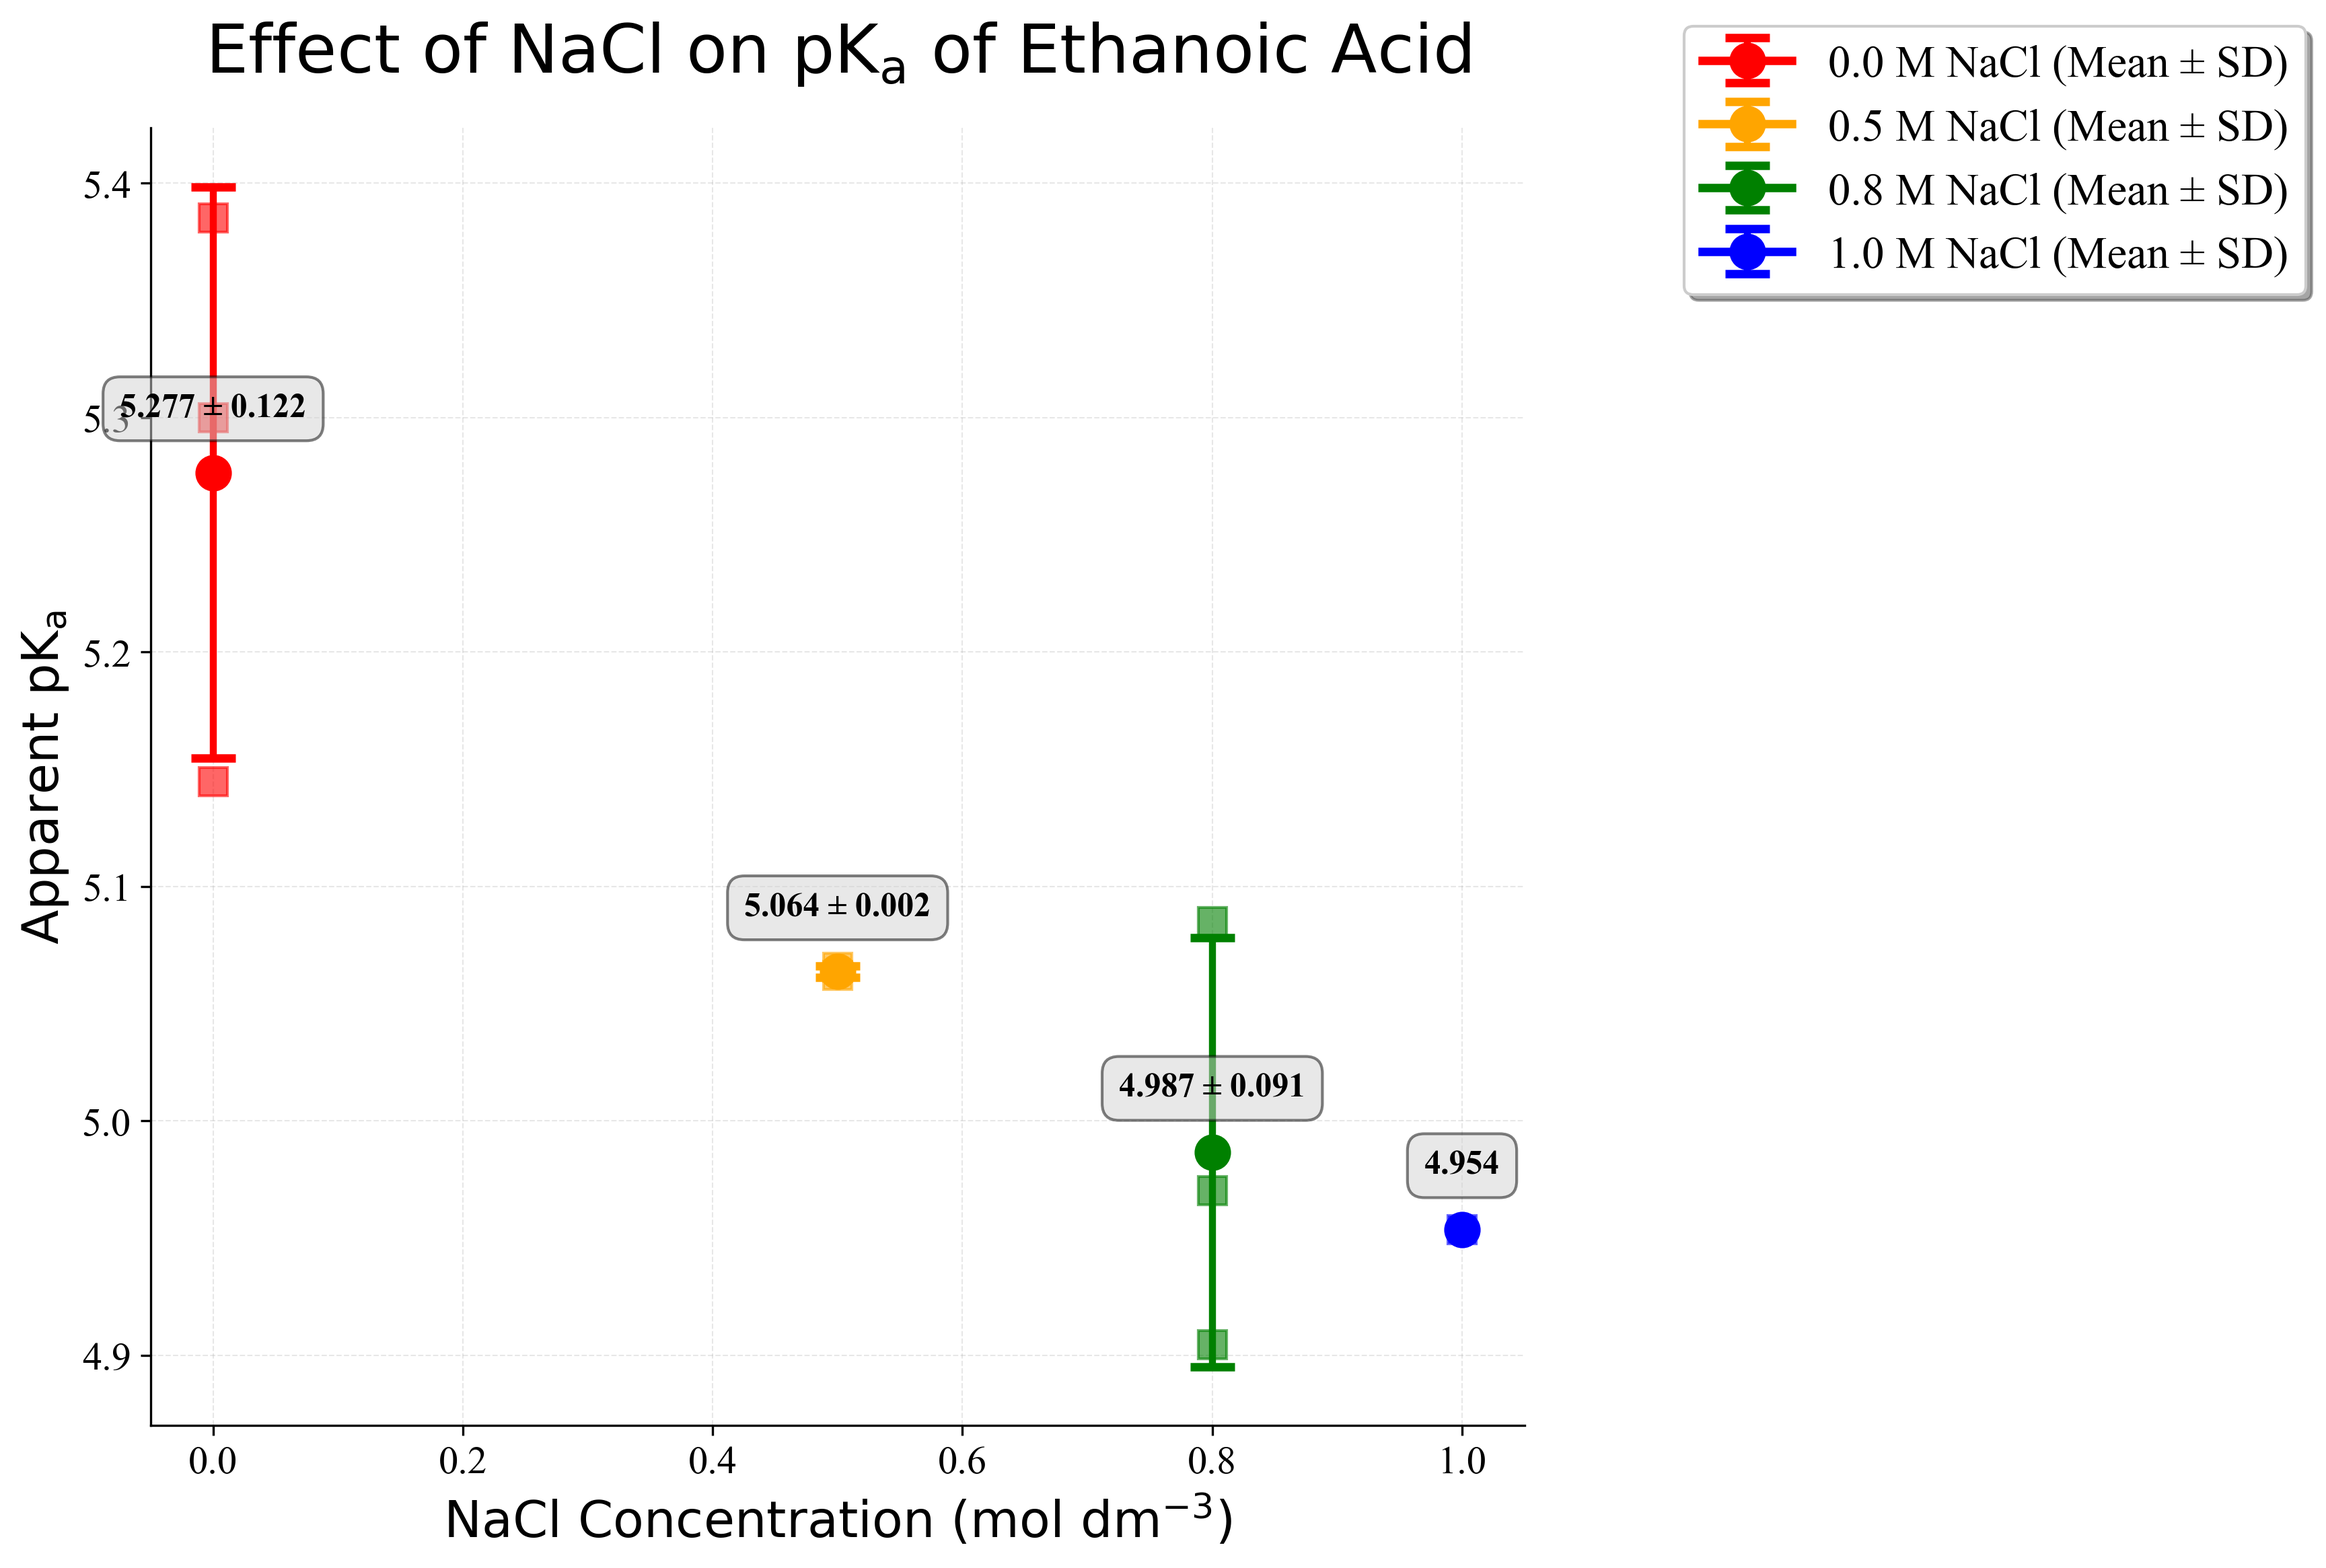
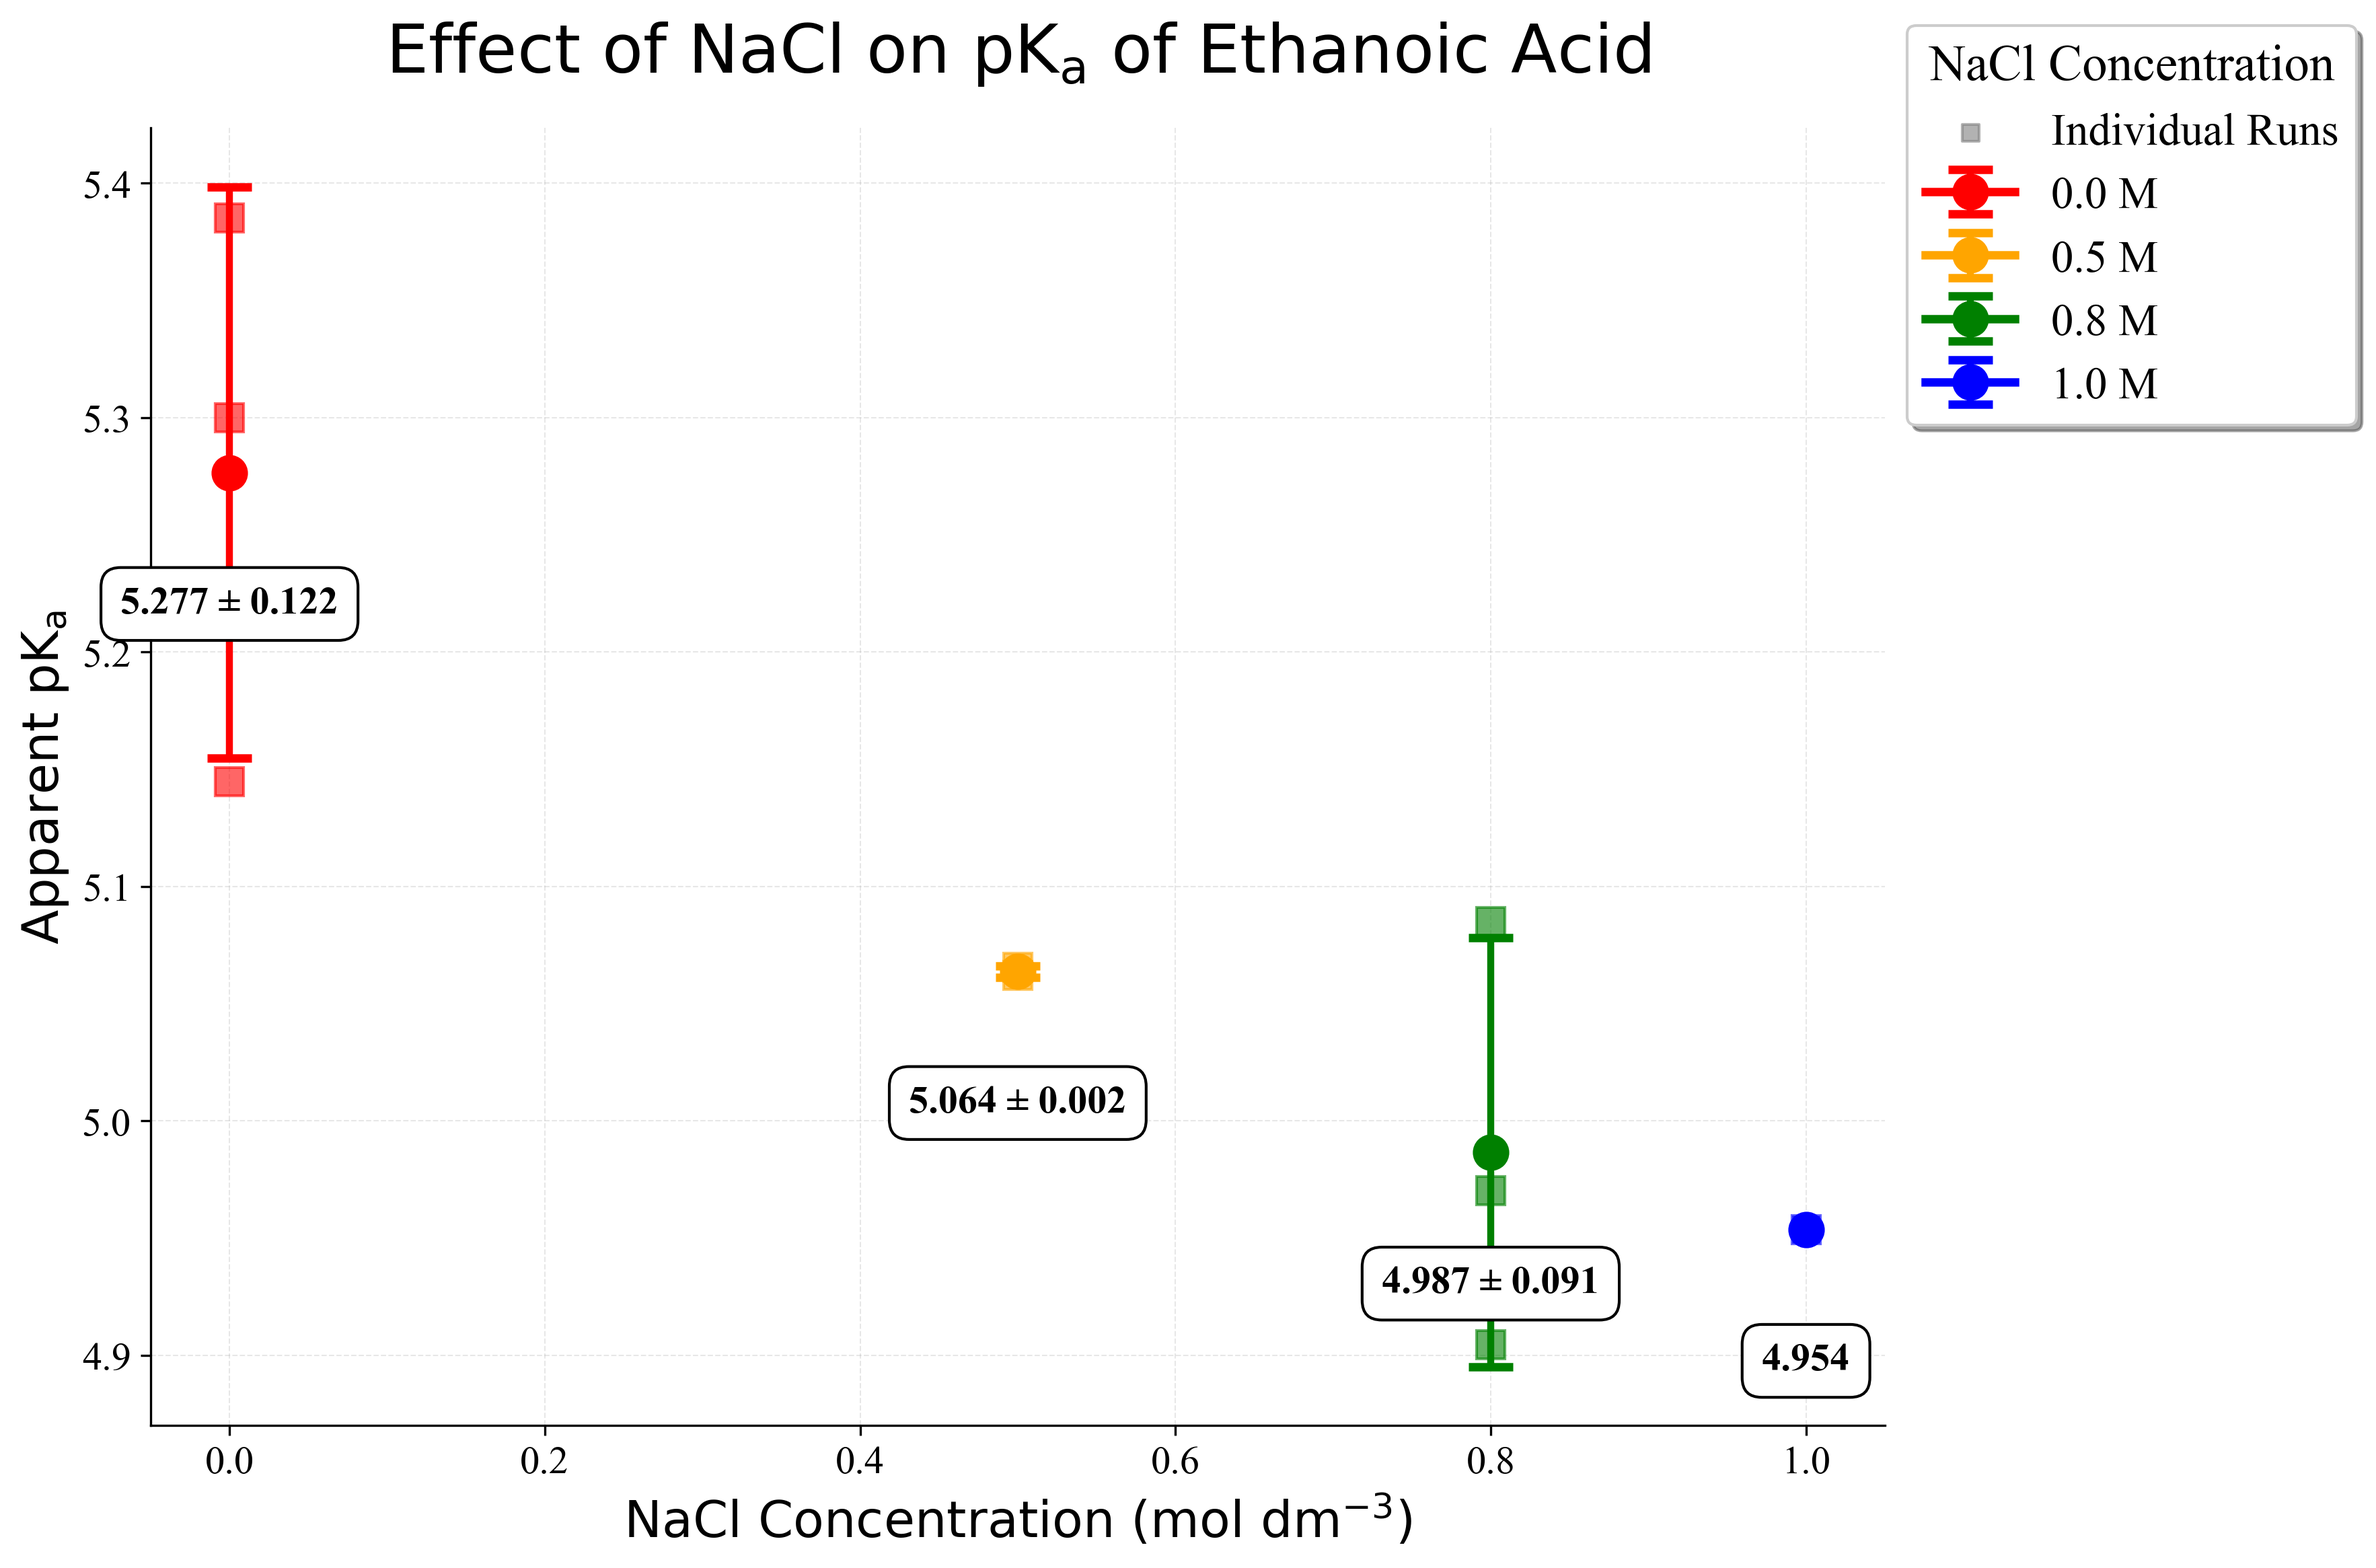
data update

diff --git a/salty/plotting.py b/salty/plotting.py
@@ -159,7 +159,7 @@ def plot_statistical_summary(stats_df, results_df, output_dir="output"):
         str: Path to saved figure.
     """
     setup_plot_style()
-    colors = ["red", "orange", "green", "blue", "purple", "brown", "pink", "gray"]
+    colors = ["red", "orange", "green", "blue", "purple", "brown", "pink"]
 
     os.makedirs(output_dir, exist_ok=True)
 
@@ -179,7 +179,7 @@ def plot_statistical_summary(stats_df, results_df, output_dir="output"):
             markersize=12,
             capsize=8,
             capthick=3,
-            label=f"{conc} M NaCl (Mean ± SD)",
+            label=f"{conc} M",
             elinewidth=2.5,
         )
 
@@ -194,6 +194,8 @@ def plot_statistical_summary(stats_df, results_df, output_dir="output"):
             linestyle="",
         )
 
+    ax1.scatter([], [], marker="s", color="grey", alpha=0.6, label="Individual Runs")
+
     ax1.set_xlabel(
         r"NaCl Concentration (mol dm$^{-3}$)", fontsize=18, fontweight="bold"
     )
@@ -207,9 +209,11 @@ def plot_statistical_summary(stats_df, results_df, output_dir="output"):
     ax1.grid(True, alpha=0.3, linestyle="--", linewidth=0.5)
     ax1.tick_params(labelsize=14)
     ax1.legend(
+        title="NaCl Concentration",
         fontsize=16,
+        title_fontsize=18,
         loc="center left",
-        bbox_to_anchor=(1.1, 0.975),
+        bbox_to_anchor=(1.0, 0.925),
         frameon=True,
         shadow=True,
     )
@@ -225,11 +229,11 @@ def plot_statistical_summary(stats_df, results_df, output_dir="output"):
             label,
             (row["NaCl Concentration (M)"], row["Mean pKa"]),
             textcoords="offset points",
-            xytext=(0, 20),
+            xytext=(0, -50),
             ha="center",
-            fontsize=12,
+            fontsize=14,
             fontweight="bold",
-            bbox=dict(boxstyle="round,pad=0.5", facecolor="lightgray", alpha=0.5),
+            bbox=dict(boxstyle="round,pad=0.5", facecolor="white"),
         )
 
     plt.tight_layout()
